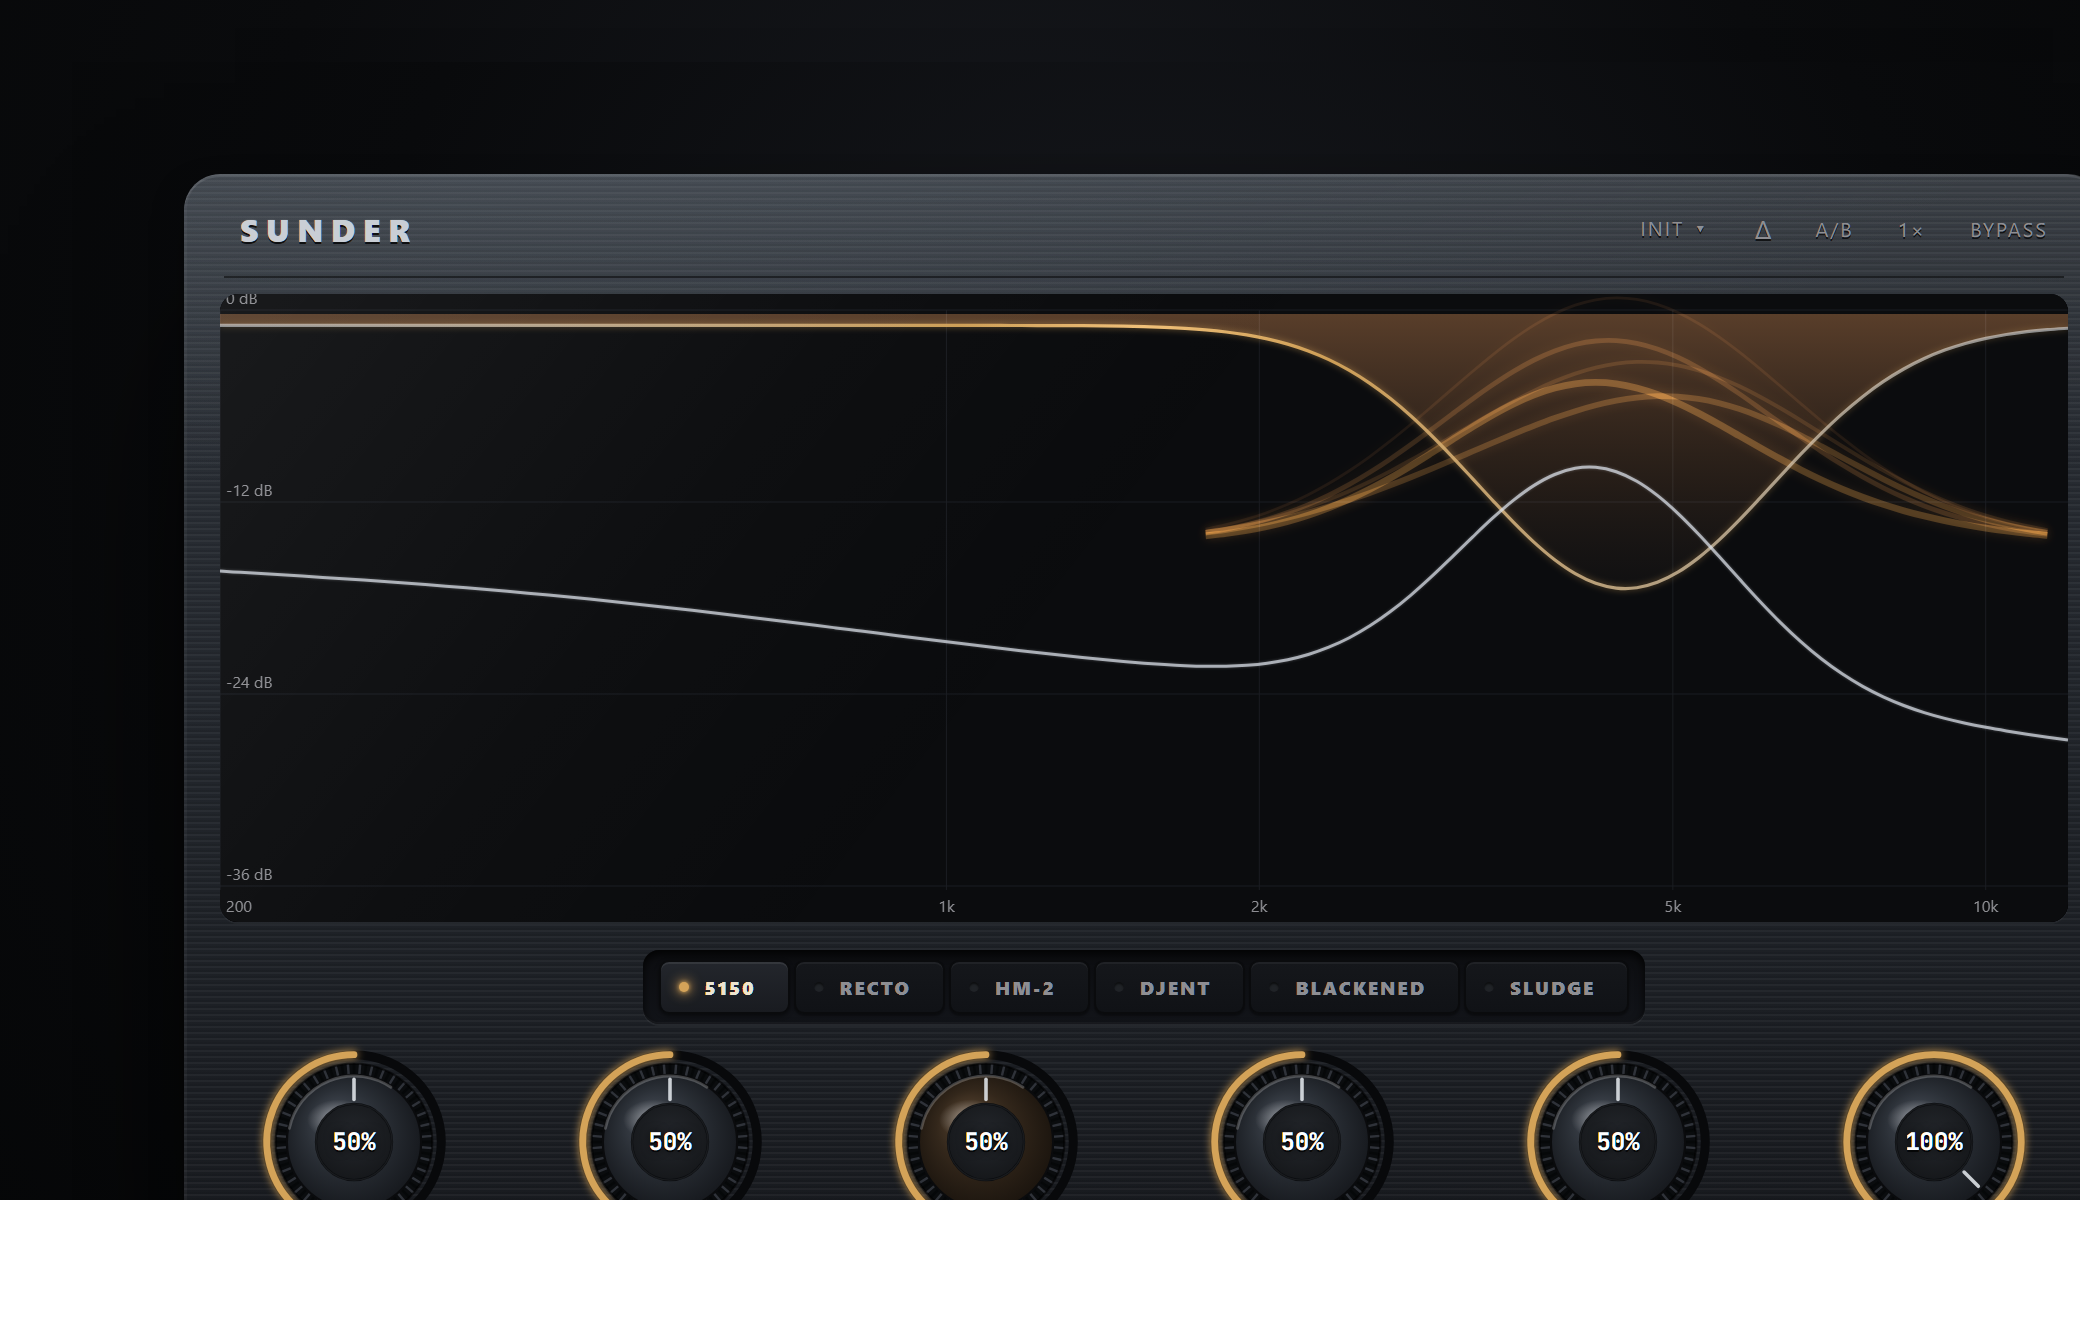
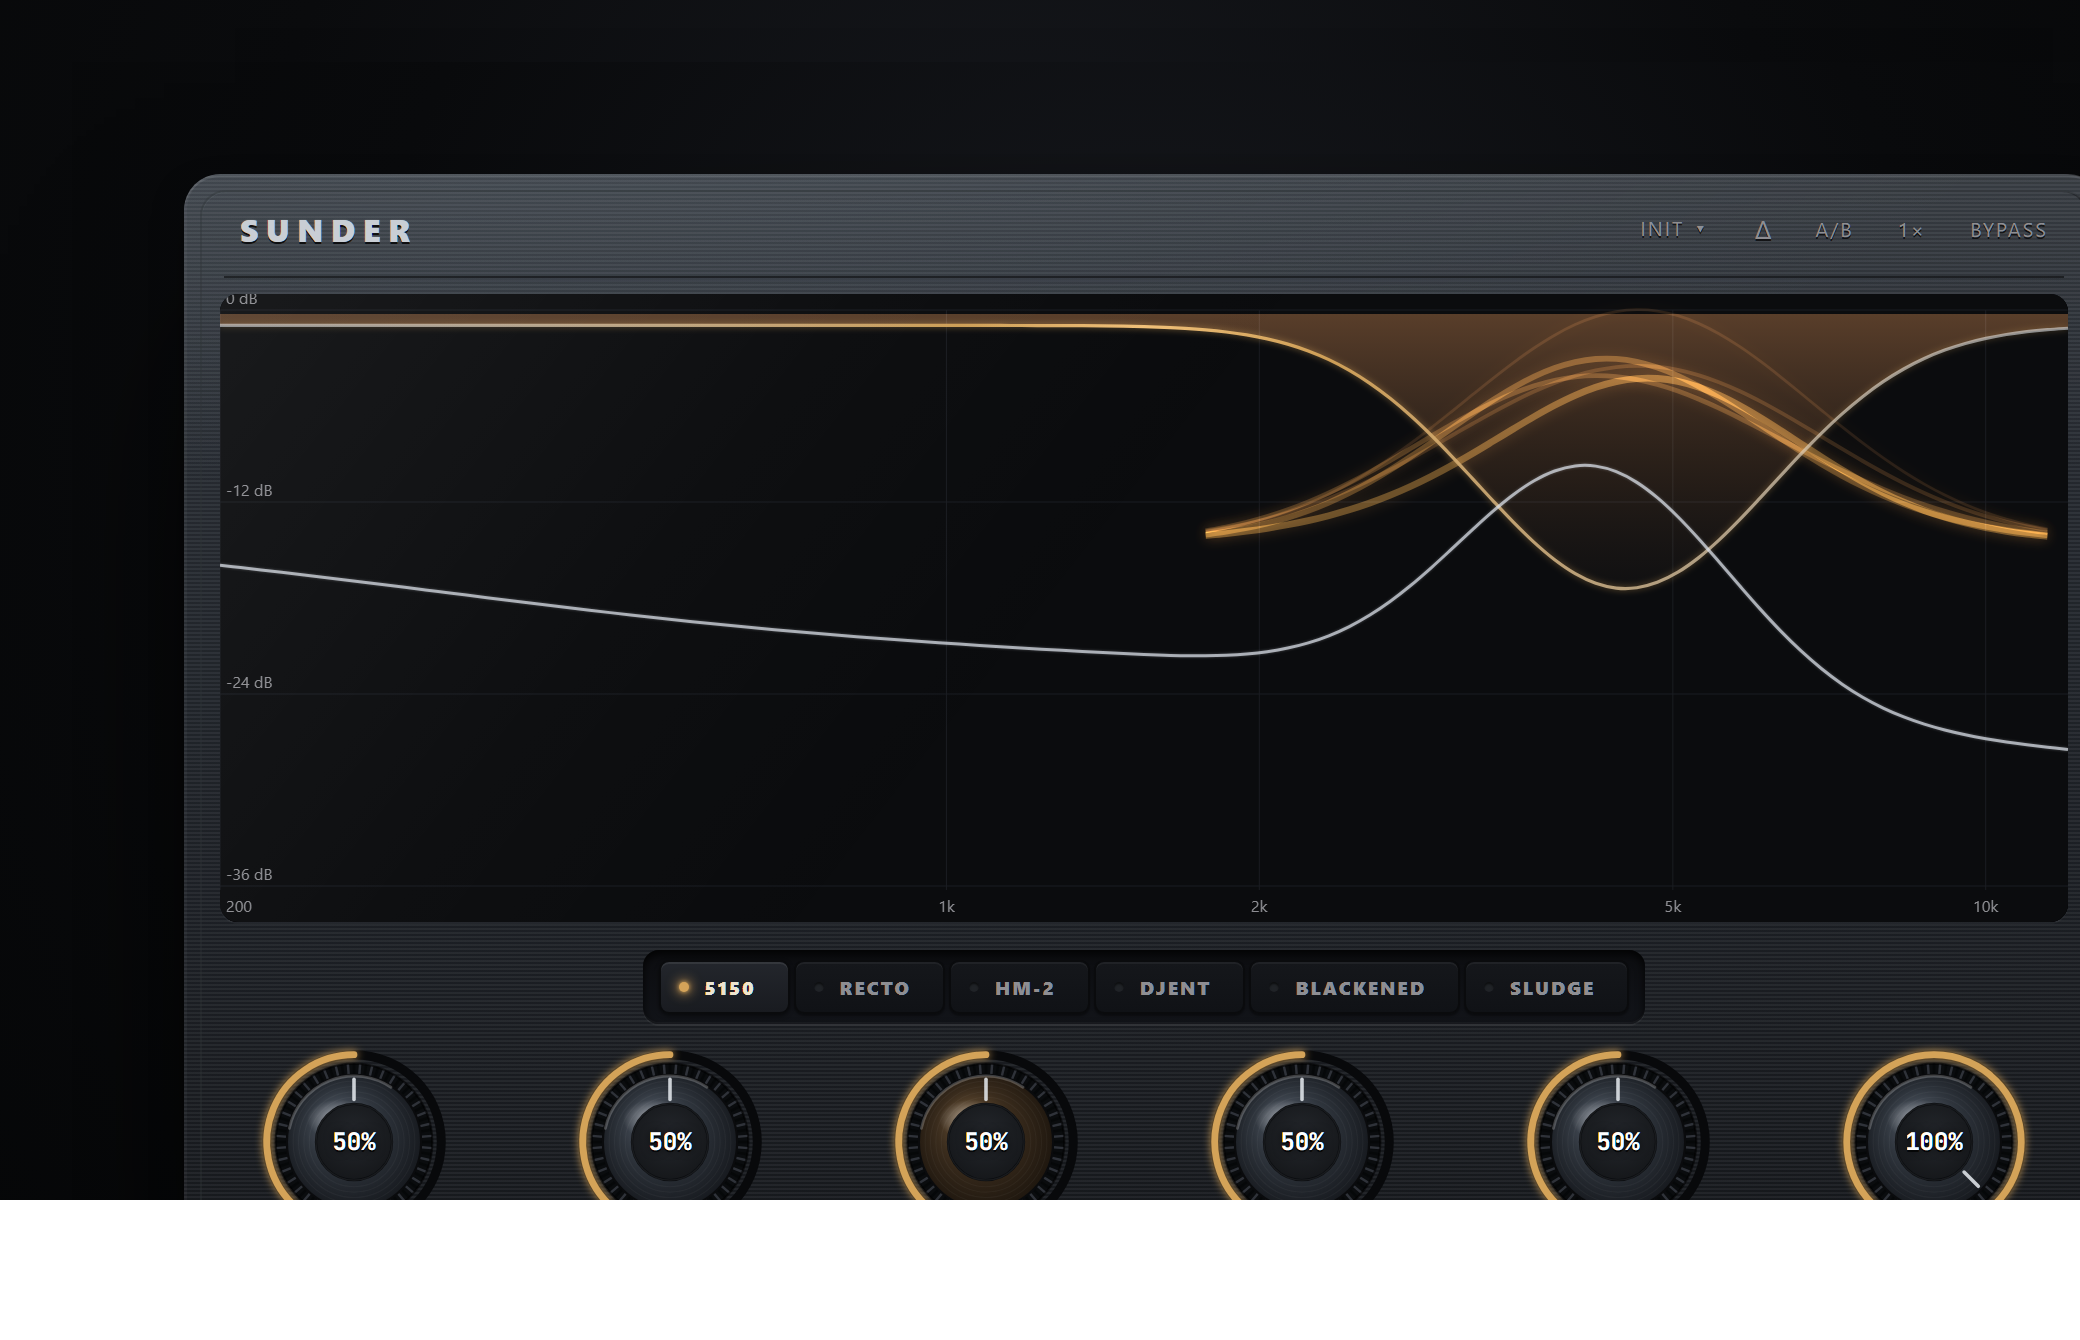
sunder v3 refine: raised inner frame, brushed grain, machined knobs, brighter silk
Tighter match to Sunder-concept: continuous brushed-metal grain, raised inner
bevel frame, lighter gunmetal, knob radial brightened + concentric turning marks,
copper silk strands brighter/cloudier.

diff --git a/design/sunder/v3-test.html b/design/sunder/v3-test.html
@@ -37,10 +37,9 @@
   #plugin-ui::before {
     content:''; position:absolute; inset:0; border-radius:18px; pointer-events:none; z-index:0;
     background:repeating-linear-gradient(0deg,
-      rgba(255,255,255,0.038) 0, rgba(255,255,255,0.038) 1px,
-      rgba(0,0,0,0.07) 1px, rgba(0,0,0,0.07) 2px,
-      transparent 2px, transparent 3px);
-    opacity:.95;
+      rgba(255,255,255,0.045) 0, rgba(255,255,255,0.045) 1px,
+      rgba(0,0,0,0.085) 1px, rgba(0,0,0,0.085) 2px);
+    opacity:1;
   }
   /* cool top sheen + corner glints */
   #plugin-ui::after {
@@ -48,6 +47,14 @@
     background:
       radial-gradient(130% 70% at 22% -12%, rgba(162,182,202,0.14), transparent 58%),
       linear-gradient(180deg, rgba(255,255,255,0.06), transparent 26%);
+  }
+  /* raised inner frame around the whole face */
+  .frame {
+    position:absolute; inset:8px; border-radius:13px; pointer-events:none; z-index:1;
+    box-shadow:
+      inset 1px 1px 0 rgba(180,195,210,0.10),
+      inset 0 0 0 1px rgba(0,0,0,0.30),
+      inset -1px -1px 0 rgba(0,0,0,0.55);
   }
   /* ---------- HEADER ---------- */
   header {
@@ -130,6 +137,7 @@
 </head>
 <body>
 <div id="plugin-ui">
+  <div class="frame"></div>
   <header>
     <div class="wordmark">SUNDER</div>
     <nav class="util">
@@ -187,9 +195,9 @@
     // defs (per-knob ids to avoid collisions)
     const defs=el('defs',{});
     const rg=el('radialGradient',{id:'kb'+idx,cx:'0.5',cy:'0.5',r:'0.62',fx:'0.34',fy:'0.30'});
-    rg.appendChild(el('stop',{offset:'0%','stop-color':e.active?'#5A4632':'#474D57'}));
-    rg.appendChild(el('stop',{offset:'45%','stop-color':e.active?'#33271B':'#2B3037'}));
-    rg.appendChild(el('stop',{offset:'100%','stop-color':e.active?'#140F0A':'#101216'}));
+    rg.appendChild(el('stop',{offset:'0%','stop-color':e.active?'#6A5236':'#545C68'}));
+    rg.appendChild(el('stop',{offset:'45%','stop-color':e.active?'#3A2C1D':'#2F353D'}));
+    rg.appendChild(el('stop',{offset:'100%','stop-color':e.active?'#16100A':'#0F1115'}));
     defs.appendChild(rg);
     const cap=el('radialGradient',{id:'cap'+idx,cx:'0.5',cy:'0.42',r:'0.6'});
     cap.appendChild(el('stop',{offset:'0%','stop-color':'#24272C'}));
@@ -212,6 +220,8 @@
     svg.appendChild(el('circle',{cx:CX,cy:CY,r:35,fill:'none',stroke:'rgba(0,0,0,0.55)','stroke-width':'1'}));
     // knob body
     svg.appendChild(el('circle',{cx:CX,cy:CY,r:30,fill:'url(#kb'+idx+')',stroke:'#0A0B0D','stroke-width':'1'}));
+    // concentric machined turning marks on the outer flat
+    for(let r=20;r<=28;r+=2.4){ svg.appendChild(el('circle',{cx:CX,cy:CY,r:r,fill:'none',stroke:'rgba(255,255,255,0.035)','stroke-width':'0.5'})); }
     // spherical specular highlight (top-left)
     const spg=el('radialGradient',{id:'sp'+idx,cx:'0.5',cy:'0.5',r:'0.5'});
     spg.appendChild(el('stop',{offset:'0%','stop-color':'rgba(255,255,255,0.5)'}));
@@ -299,8 +309,8 @@
       for(let i=0;i<pts.length-1;i++){const p0=pts[i-1]||pts[i],p1=pts[i],p2=pts[i+1],p3=pts[i+2]||p2;
         const c1x=p1[0]+(p2[0]-p0[0])/6,c1y=p1[1]+(p2[1]-p0[1])/6,c2x=p2[0]-(p3[0]-p1[0])/6,c2y=p2[1]-(p3[1]-p1[1])/6;
         ctx.bezierCurveTo(c1x,c1y,c2x,c2y,p2[0],p2[1]);}
-      ctx.strokeStyle='rgba('+(200+s*8)+','+(120+s*10)+',60,'+(0.10+0.04*s)+')';
-      ctx.lineWidth=1.4+s*0.5; ctx.shadowColor='rgba(229,152,70,0.55)'; ctx.shadowBlur=12; ctx.stroke();
+      ctx.strokeStyle='rgba('+(205+s*8)+','+(130+s*10)+',66,'+(0.14+0.05*s)+')';
+      ctx.lineWidth=1.4+s*0.5; ctx.shadowColor='rgba(229,152,70,0.6)'; ctx.shadowBlur=14; ctx.stroke();
     }
     ctx.restore();
 
